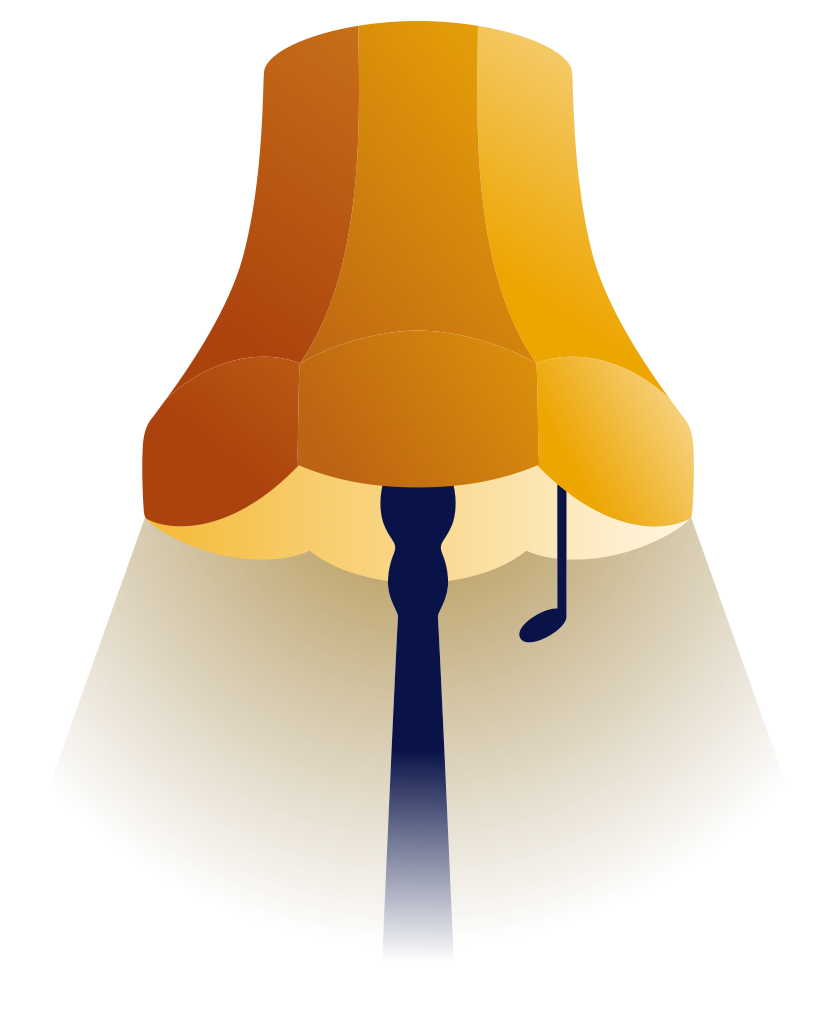
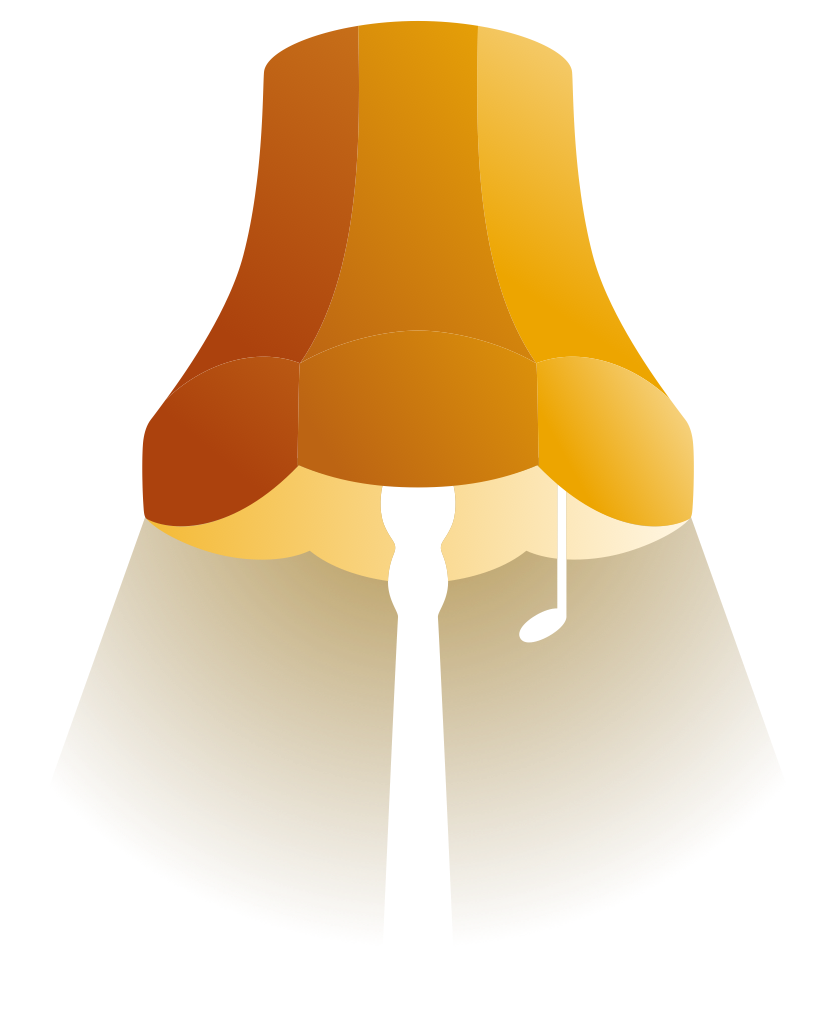
Add lamp symbol to top of hero header.
Uses updated symbol.png above the EDISON TRICK logo.

Changed region(s): [[0.437, 0.4577, 0.5618, 0.9459], [0.6242, 0.4577, 0.6867, 0.6407]]

diff --git a/index.html b/index.html
@@ -65,6 +65,14 @@
       text-align: center;
     }
 
+    .hero-symbol {
+      width: min(120px, 32vw);
+      height: auto;
+      margin: 0 auto 12px;
+      display: block;
+      filter: drop-shadow(0 4px 24px rgba(255, 182, 0, 0.22));
+    }
+
     .hero-logo {
       width: min(340px, 94vw);
       height: auto;
@@ -858,6 +866,7 @@
 <body>
 
   <header class="hero">
+    <img class="hero-symbol" src="assets/symbol.png" alt="">
     <div class="hero-logo-wrap">
       <img class="hero-logo" src="assets/hero-logo.svg" alt="EDISON TRICK">
     </div>